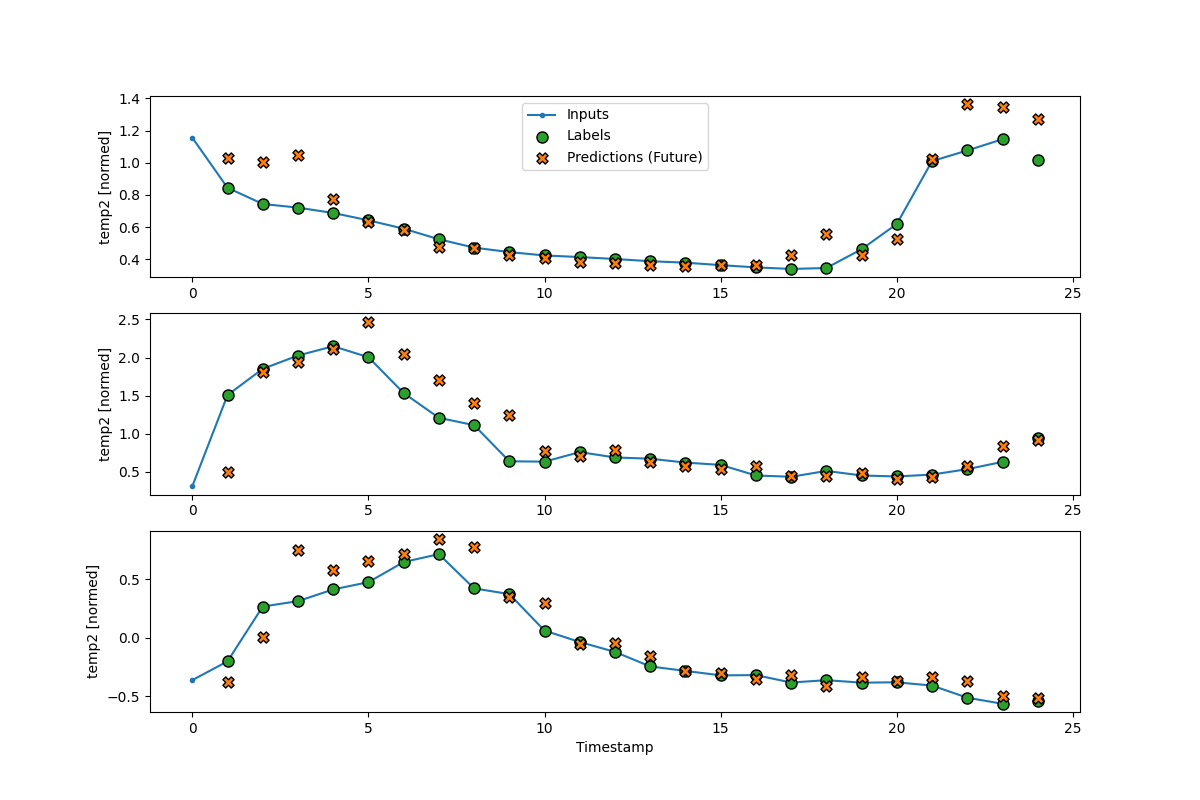
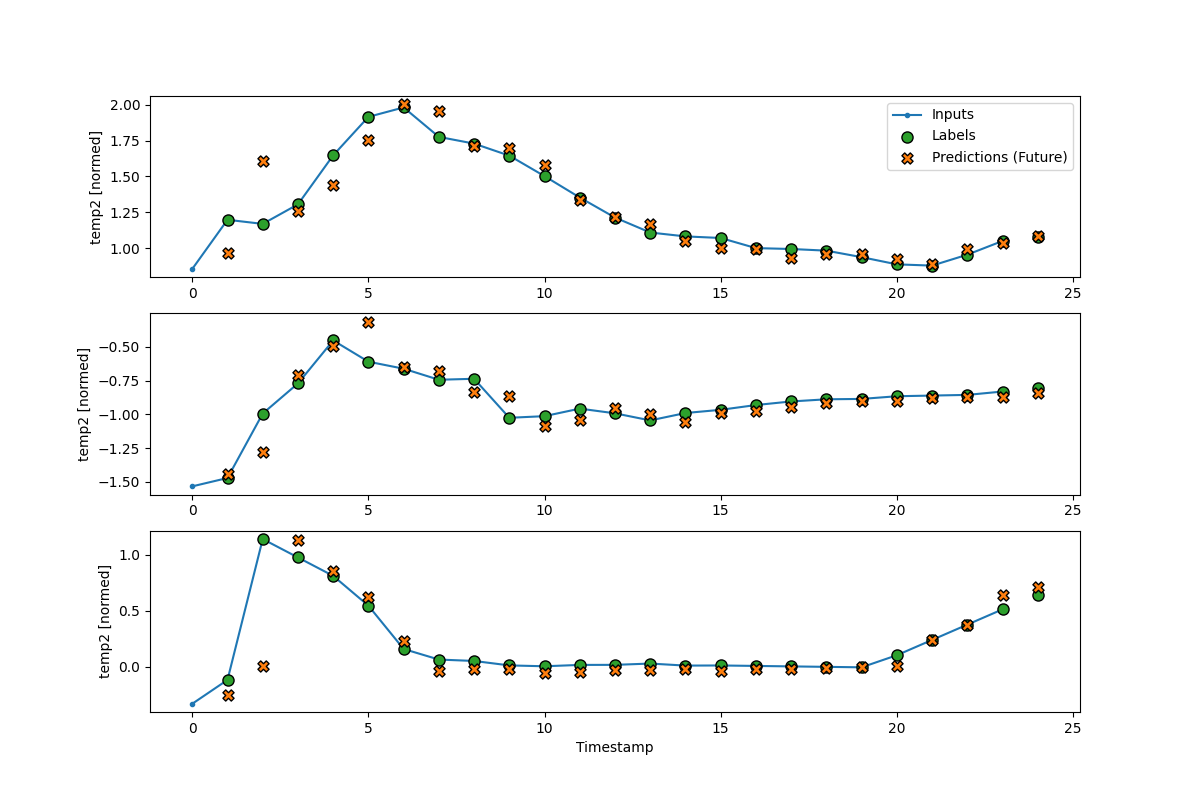
removed outliers

diff --git a/tema1.py b/tema1.py
@@ -10,7 +10,17 @@ def load_data(file_path):
 def preprocess_data(df):
     # Drop the hours from the Timestamp column
     df['Timestamp'] = df['Timestamp'].dt.date
+    return df
 
+
+def preprocess_data_IQR(df):
+    # Drop the hours from the Timestamp column
+    df['Timestamp'] = df['Timestamp'].dt.date
+
+    Q1 = df.quantile(0.25)
+    Q3 = df.quantile(0.75)
+    IQR = Q3 - Q1
+    df = df[~((df < (Q1 - 1.5 * IQR)) | (df > (Q3 + 1.5 * IQR))).any(axis=1)]
     return df
 
 def calculate_heatmaps(df):
@@ -35,15 +45,25 @@ def calculate_heatmaps(df):
             plt.savefig(os.path.join("./median_values", f'median_heatmap_{param}.png'))
             plt.close()
 
-def calculate_boxplots(df):
+def calculate_boxplots(df, has_outliers=True):
     for param in df.columns:
         if param != 'Timestamp':
             plt.figure(figsize=(20, 10))
-            sns.boxplot(x=df[param], showfliers=True)
-            plt.title(f'Boxplot for {param} with Outliers')
+            if has_outliers:
+                sns.boxplot(x=df[param], showfliers=True)
+            else:
+                sns.boxplot(x=df[param], showfliers=False)
+            if has_outliers:
+                plt.title(f'Boxplot for {param} with Outliers')
+            else:
+                plt.title(f'Boxplot for {param} with NO Outliers')
             plt.xlabel(param)
 
-            plt.savefig(os.path.join("./boxplots", f'boxplot_{param}.png'))
+            if has_outliers:
+                plt.savefig(os.path.join("./boxplots", f'boxplot_{param}.png'))
+            else:
+                plt.savefig(os.path.join("./boxplots", f'boxplot_{param}_no_outl.png'))
+
             plt.close()
 
 def calculate_correlation_matrix(df):
@@ -73,13 +93,16 @@ def calculate_correlation_matrix(df):
     print(inverse_correlations.head(5))
 
 if __name__ == '__main__':
-    file_path = "./SensorMLDataset_small.csv"
+    file_path = "./SensorMLDataset.csv"
     df = load_data(file_path)
+    df2 = load_data(file_path)
     df = preprocess_data(df)
-    calculate_heatmaps(df)
-    calculate_boxplots(df)
-    calculate_correlation_matrix(df)
 
+    calculate_boxplots(df, True)
 
+    df2 = preprocess_data_IQR(df2)
 
+    calculate_boxplots(df2, False)
+    calculate_heatmaps(df2)
 
+    calculate_correlation_matrix(df2)

diff --git a/lstm.py b/lstm.py
@@ -5,11 +5,26 @@ import pandas as pd
 import tensorflow as tf
 from sklearn.metrics import mean_absolute_error
 import os
-def split_data(file_path):
+
+
+def load_data(file_path="./SensorMLDataset.csv"):
+    data = pd.read_csv(file_path, parse_dates=['Timestamp'])
+    return data
+
+def preprocess_data_IQR(df):
+    # Drop the hours from the Timestamp column
+    df['Timestamp'] = df['Timestamp'].dt.date
+
+    Q1 = df.quantile(0.25)
+    Q3 = df.quantile(0.75)
+    IQR = Q3 - Q1
+    df = df[~((df < (Q1 - 1.5 * IQR)) | (df > (Q3 + 1.5 * IQR))).any(axis=1)]
+    return df
+
+def split_data(df):
     # The data is not randomly shuffled:
     # It ensures that chopping the data into windows of consecutive samples is still possible.
 
-    df = pd.read_csv(file_path)
     date_time = pd.to_datetime(df.pop('Timestamp'),format='%m/%d/%Y %H:%M')
     print(df.shape[1]) # number of features (Timestamp is not a fetaure)
     n = len(df)
@@ -193,8 +208,10 @@ WindowGenerator.plot_future_train_set = plot_future_train_set
 if __name__ == '__main__':
 
     file_path = "./SensorMLDataset.csv"
+    data = load_data(file_path)
+    df = preprocess_data_IQR(data)
 
-    train_df, val_df, test_df = split_data(file_path)
+    train_df, val_df, test_df = split_data(df)
     train_mean = train_df.mean()
     train_std = train_df.std()
 
@@ -202,7 +219,7 @@ if __name__ == '__main__':
     val_df = (val_df - train_mean) / train_std
     test_df = (test_df - train_mean) / train_std
 
-    df = pd.read_csv(file_path)
+    # df = pd.read_csv(file_path)
 
     ### Save the average MAE for every param
     average_mae_per_param = []

diff --git a/RNN.py b/RNN.py
@@ -8,19 +8,27 @@ import torch.nn as nn
 from torch.autograd import Variable
 
 
-def load_data(file_path, train_ratio = 0.8, seed = 42):
+def load_data(file_path, train_ratio = 0.8, seed = 42, df):
     data = pd.read_csv(file_path, parse_dates=['Timestamp'])
+    df['Timestamp'] = df['Timestamp'].dt.date
+    Q1 = df.quantile(0.25)
+    Q3 = df.quantile(0.75)
+    IQR = Q3 - Q1
+    df = df[~((df < (Q1 - 1.5 * IQR)) | (df > (Q3 + 1.5 * IQR))).any(axis=1)]
+
     np.random.seed(seed)
-    shuffled_indices = np.random.permutation(len(data))
-    train_size = int(len(data) * train_ratio)
+    shuffled_indices = np.random.permutation(len(df))
+    train_size = int(len(df) * train_ratio)
 
     train_indices = shuffled_indices[:train_size]
     test_indices = shuffled_indices[train_size:]
 
-    train_data = data.iloc[train_indices]
-    test_data = data.iloc[test_indices]
+    train_data = df.iloc[train_indices]
+    test_data = df.iloc[test_indices]
 
     return train_data, test_data
+
+
 if __name__ == '__main__':
     train_data, test_data = load_data("./SensorMLDataset_small.csv")
     print(test_data)
